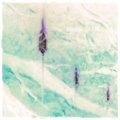
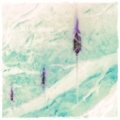
themes update (inverted tree) - images were reverted in vertical line - menu was moved to left

diff --git a/themes/common_files/style_left.css b/themes/common_files/style_left.css
@@ -1,0 +1,113 @@
+.bordered{
+    border: 1px solid;
+    margin: 5px;
+    padding: 10px;
+}
+#img_epigraph{
+    background: no-repeat 50% 50%;
+    background-size: contain;
+}
+div{
+    display: block;
+}
+a{
+    text-decoration: none;
+}
+#epigraph a{
+    text-decoration: underline;
+}
+a:hover{
+    text-decoration: underline;
+}
+[class^="post_area"], .diary_info{
+    border-left: none;
+    border-right: none;
+    border-top: none;
+    margin: 10px -5px;
+    padding: 0;
+}
+
+#sortOrder{
+    margin: 0;
+    padding: 0;
+    text-align: right;
+    opacity: 0.6;
+}
+#sortOrder li{
+    display: inline;
+}
+.infouser_area{
+    text-align: center;
+    width: 130px;
+    padding: 10px 5px 10px 0;
+    float: left;
+}
+[class^="post_area_"] .post_text{
+    min-height: 40px;
+/*    float: right;    */
+    padding-top: 40px;
+}
+[class^="post_area"] {
+    padding: 0 5px;
+}
+.infouser_area .username{
+    font-weight: bold;
+}
+.avatar_area{
+    width: 120px;
+    height: 120px;
+    margin: 10px 5px;
+}
+.underwords{
+    width: 120px;
+    text-align: left;
+    margin: 5px 0;
+}
+.underwords, .post_url{
+    font-size: 85%;
+}
+.post_data{
+    text-align: right;
+}
+.header h2{
+    display: inline;
+    padding-left: 5px;
+    font-weight: normal;
+    font-size: 100%;
+}
+.layout{
+    width: 100%;
+    margin: 0;
+    padding: 0;
+}
+.posts_area{
+    margin-left: 190px;
+}
+.menu_area{
+    float: left;
+    width: 150px;
+}
+.diary_info{
+    text-align: center;
+    margin: 0;
+    padding: 0 0 10px;
+}
+#photo_diary{
+    width: 120px;
+    height: 120px;
+    background: no-repeat 50% 50%;
+    background-size: contain;
+    margin: 20px 0 5px 10px;
+}
+.links_group ul{
+    list-style: none;
+    padding: 0;
+}
+.clear{
+    clear: both;
+}
+
+.img_sorting{
+    margin: 0;
+    border: 0;
+}

diff --git a/themes/tree_inverted/index.html b/themes/tree_inverted/index.html
@@ -3,7 +3,7 @@
     <head>
         <meta charset="utf-8">
         <title>тест темы оформления для @дневника</title>
-        <link rel="stylesheet" href="../common_files/style.css">
+        <link rel="stylesheet" href="../common_files/style_left.css">
         <link rel="stylesheet" href="sources/style.css">
     </head>
     <body>
